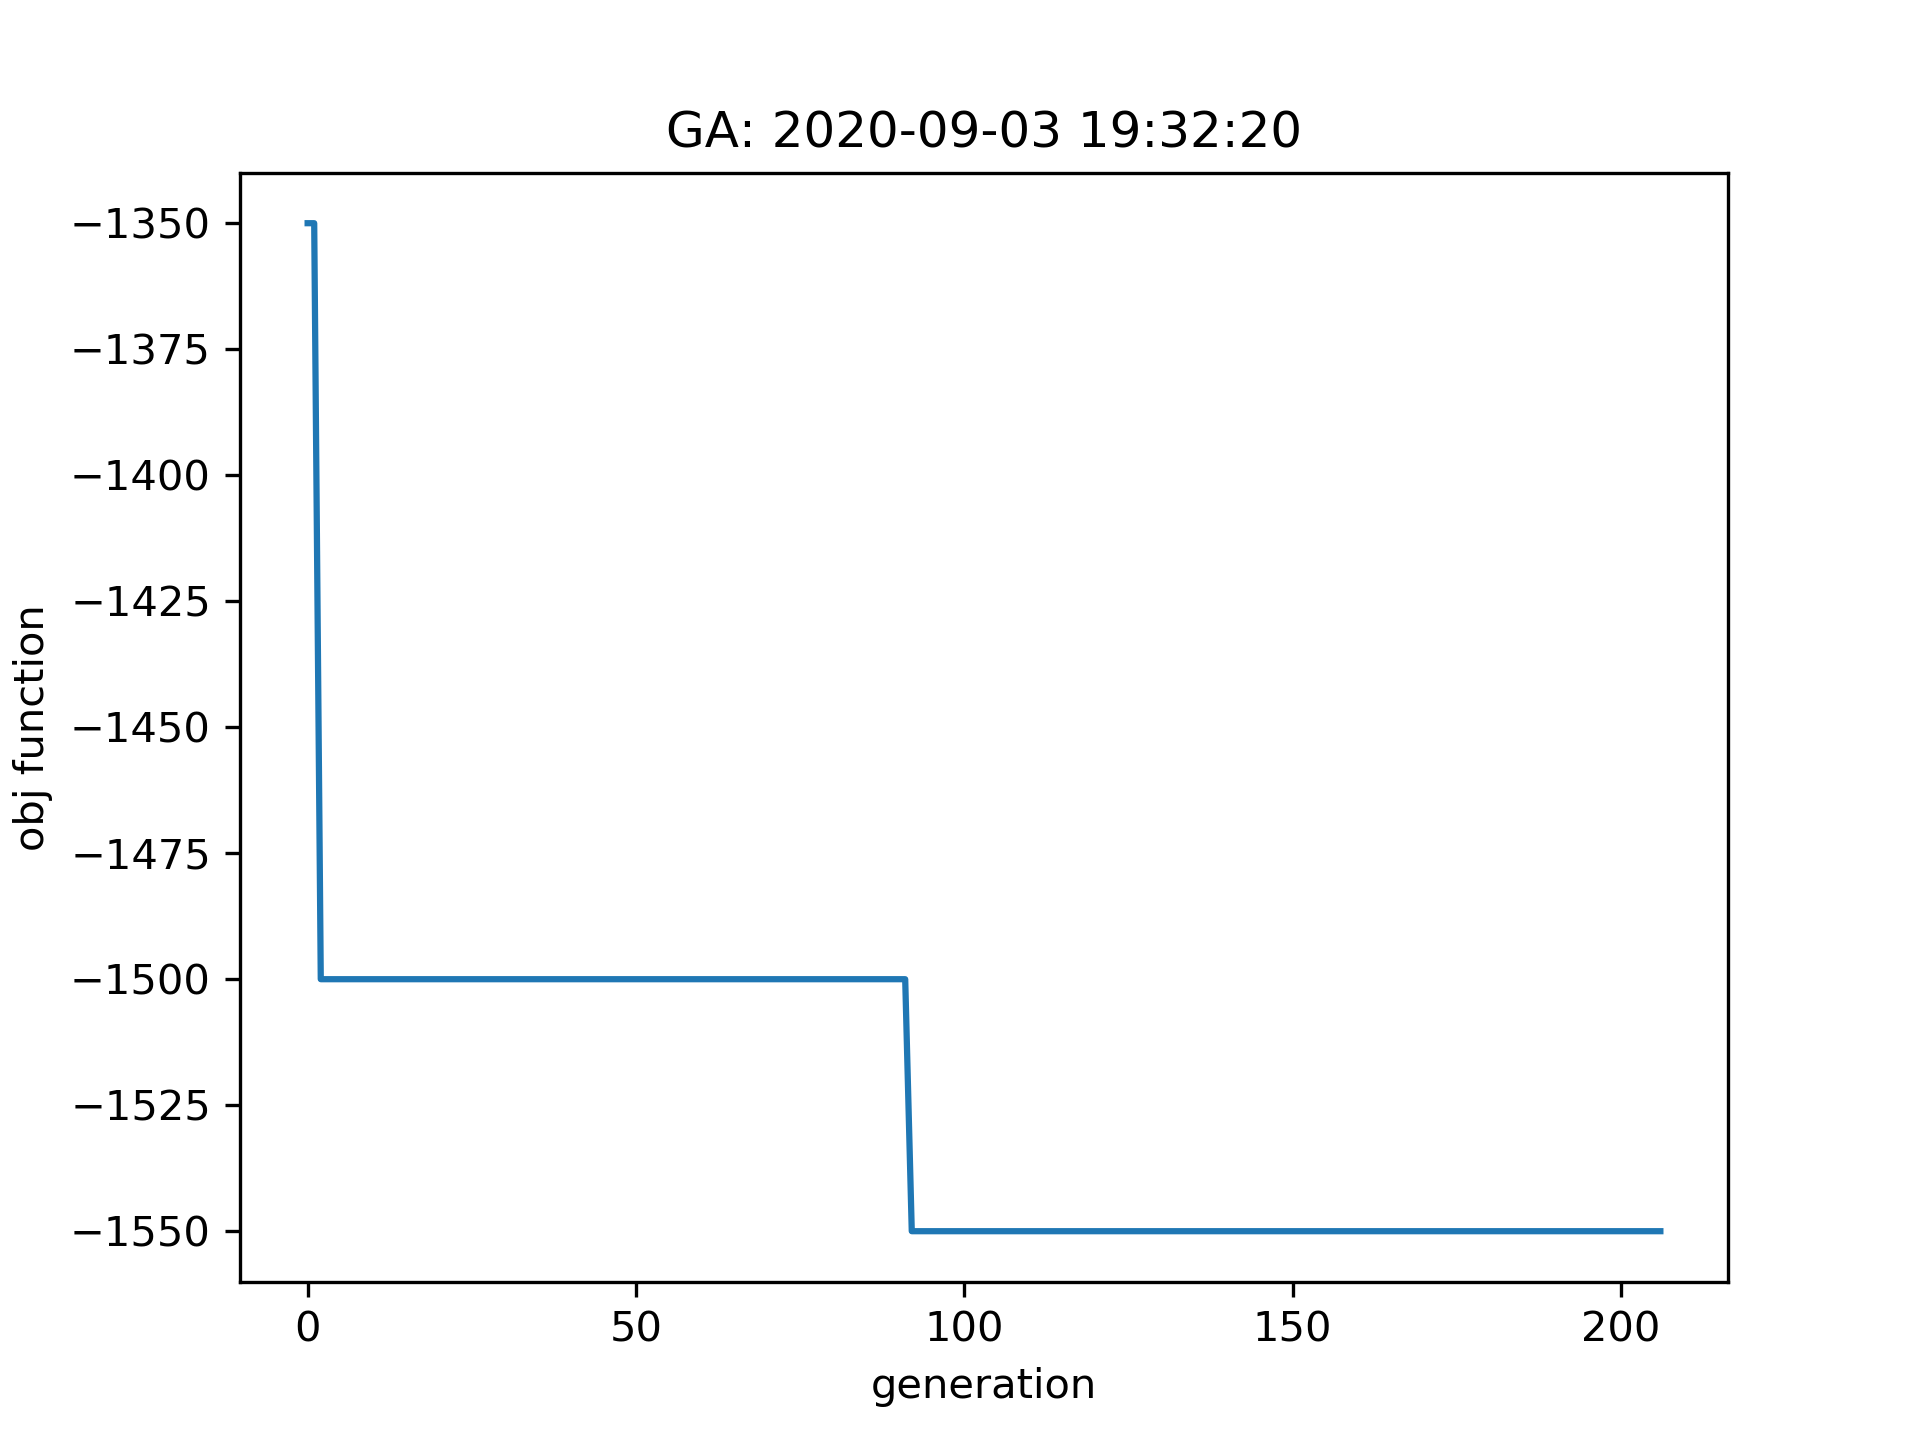
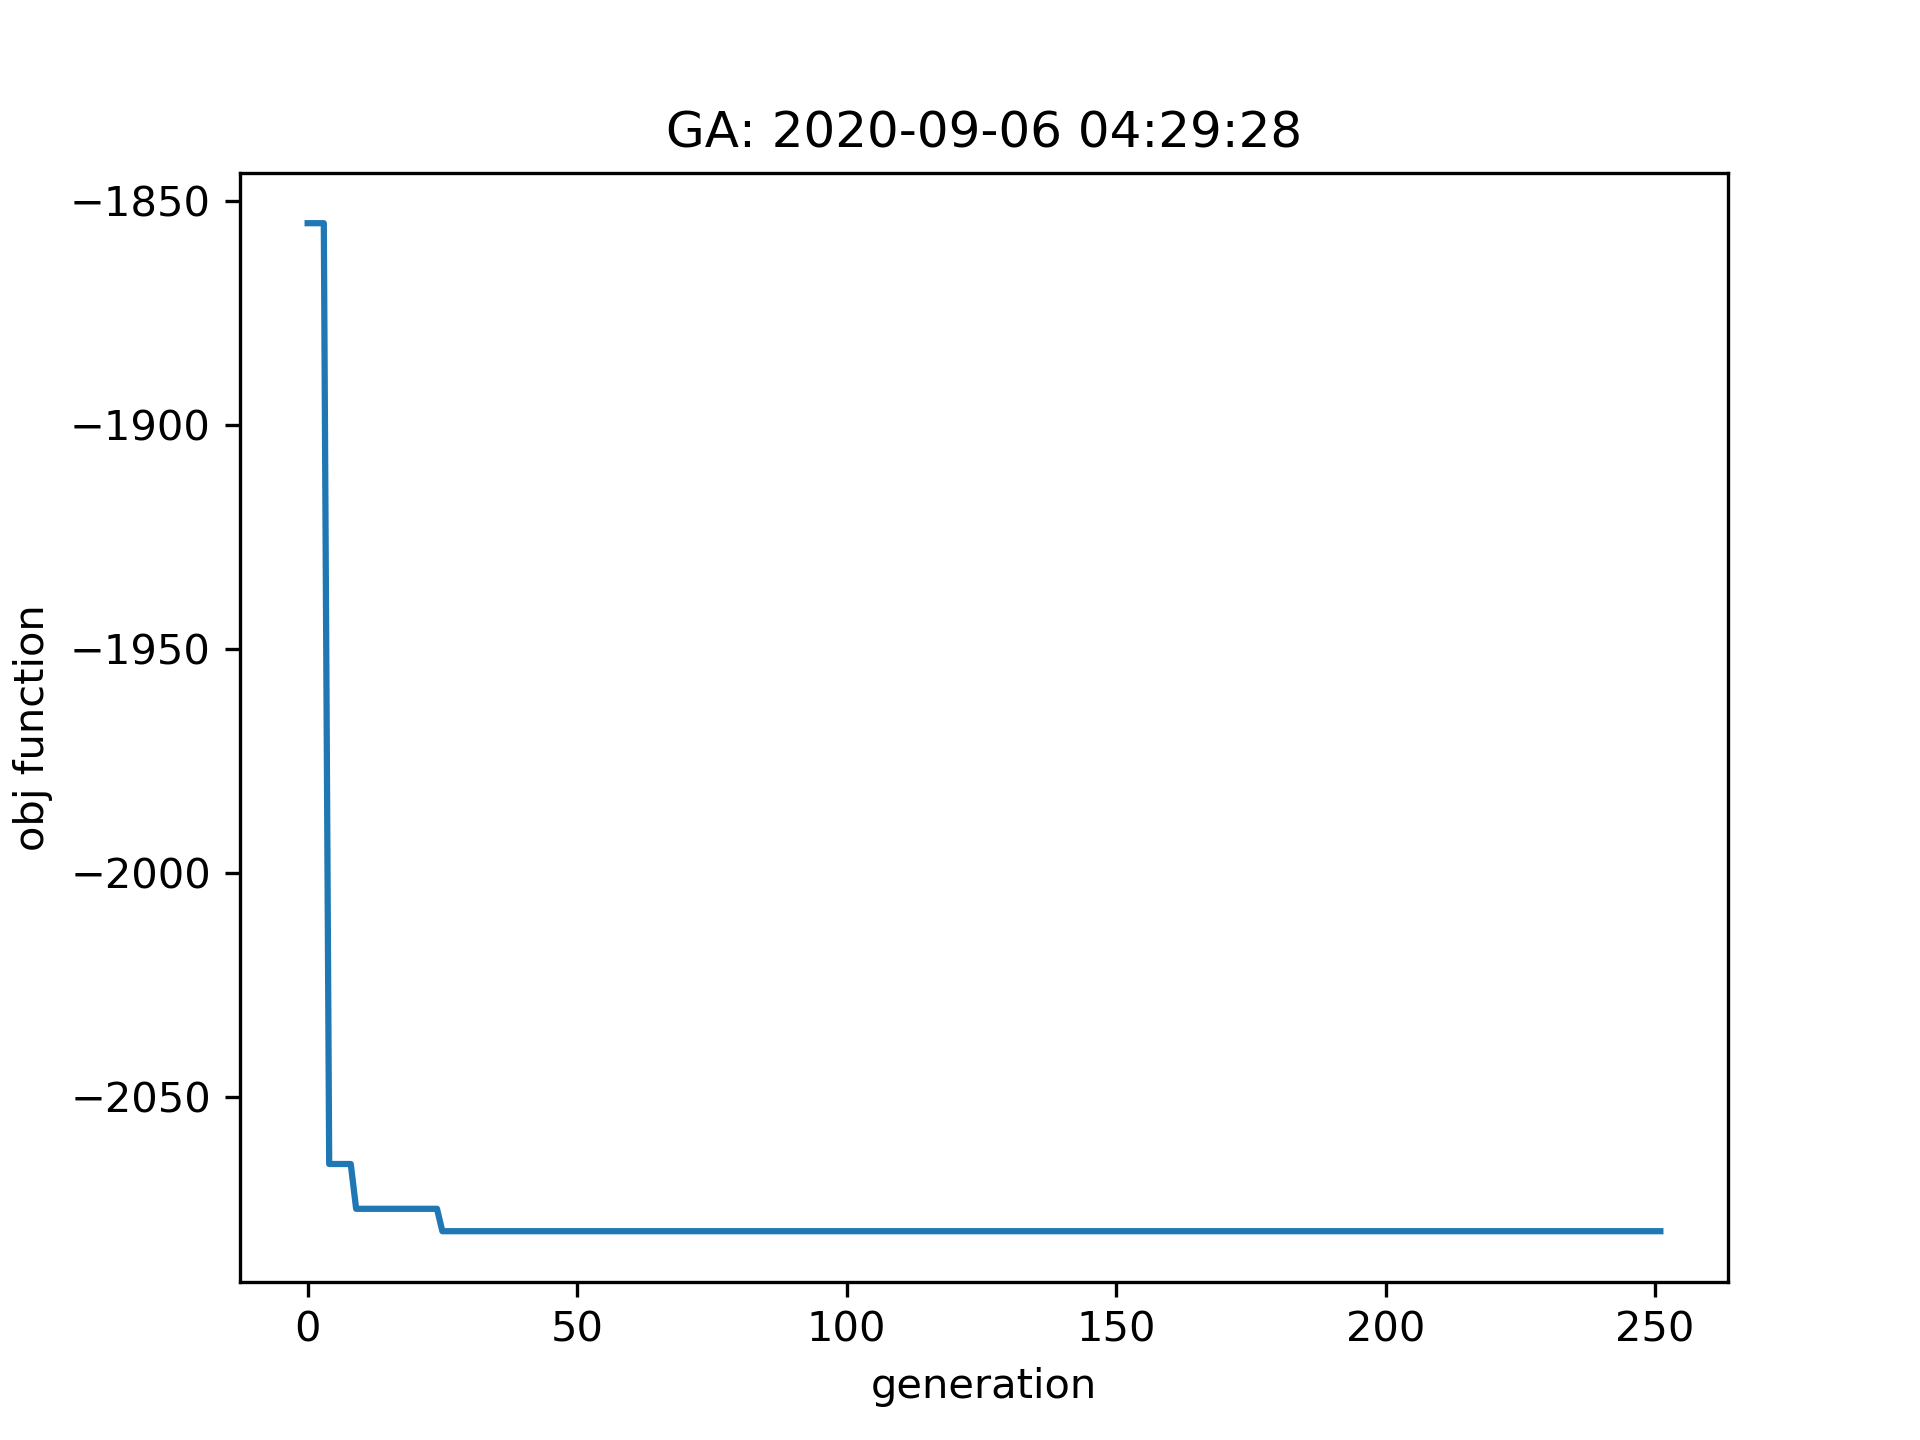
Uploading Alpha Test case and figuring out ALG test bugs

diff --git a/src/score.py b/src/score.py
@@ -133,8 +133,7 @@ def pointsTeamSize(groupAssignments):
     for i in range(len(groupSize)):
         if load_csv.minTeamSize[i] <= groupSize[i] <= load_csv.maxTeamSize[i]:
             prints.debug(f"project: {load_csv.projectIDs[i]} satisfies the condition!")
-            prints.debug(
-                f"project: {load_csv.projectIDs[i]} Min:{load_csv.minTeamSize[i]} Max: {load_csv.maxTeamSize[i]} group size: {groupSize[i]}")
+            prints.debug(f"project: {load_csv.projectIDs[i]} Min:{load_csv.minTeamSize[i]} Max: {load_csv.maxTeamSize[i]} group size: {groupSize[i]}")
             totalPTS += weightPTS
 
     return totalPTS
@@ -173,23 +172,23 @@ def pointsAvoid(groupAssignments):
 
 
 def scoringMode(groupAssignments):
-    prints.debug(f"Assignment: {groupAssignments}")
+    prints.score(f"Assignment: \nStudent   Project\n{groupAssignments}")
     score = 0
 
     score = pointsStudentChoice(groupAssignments)
-    prints.debug(f"score after studentChoice = , {score}")
+    prints.score(f"score after studentChoice = {score}")
     score += pointsESLStudents(groupAssignments)
-    prints.debug(f"score after ESLStudents = {score}")
+    prints.score(f"score after ESLStudents = {score}")
     score += pointsStudentPriority(groupAssignments)
-    prints.debug(f"score after studentPriority = {score}")
+    prints.score(f"score after studentPriority = {score}")
 
-    score += pointsMaxLowGPAStudents(groupAssignments)
-    prints.debug(f"score after maxLowGPAStudents = {score}")
-    score += pointsTeamSize(groupAssignments)
-    prints.debug(f"score after teamSize = {score}")
-    score += pointsAvoid(groupAssignments)
-    prints.debug(f"score after studentAvoid = {score}")
+    score += pointsMaxLowGPAStudents(groupAssignments)  
+    prints.score(f"score after maxLowGPAStudents = {score}")
+    score += pointsTeamSize(groupAssignments)           
+    prints.score(f"score after teamSize = {score}")
+    score += pointsAvoid(groupAssignments)              
+    prints.score(f"score after studentAvoid = {score}")
 
-    prints.debug(f"score grand total = {score}")
+    prints.score(f"score grand total = {score}")
 
     return score

diff --git a/src/geneticalgorithm.py b/src/geneticalgorithm.py
@@ -388,14 +388,14 @@ class geneticalgorithm():
         re = np.array(self.report)
         now = datetime.today().strftime('%Y-%m-%d %H:%M:%S')  ## pass from main?
 
-        # plt.plot(re)
-        # plt.xlabel('generation')
-        # plt.ylabel('obj function')
-        # plt.title('GA: ' + now)
-        # plt.savefig('../io/latest.png', dpi=300)
-        # plt.show()
+        plt.plot(re)
+        plt.xlabel('generation')
+        plt.ylabel('obj function')
+        plt.title('GA: ' + now)
+        plt.savefig('../io/latest.png', dpi=300)
+        plt.show()
 
-        # plt.savefig(sys.stdout.buffer)
+        #plt.savefig(sys.stdout.buffer)
 
         if self.stop_mniwi == True and self.param['verbose']:
             sys.stdout.write(early_stop_message)

diff --git a/src/assign.py b/src/assign.py
@@ -43,10 +43,10 @@ def run_ga(verbose=1):
     """
 
     # vars
-    effort_scaling = load_csv.effort/2 # scale the effort value for this algorithm, '100' taking roughly 8 hours
+    effort_scaling = load_csv.effort # scale the effort value for this algorithm, '100' taking roughly 8 hours
     num_projects = len(load_csv.projectIDs) # total projects available
     num_generations = load_csv.numStudents*num_projects*effort_scaling # scale generations based on input size
-
+    print(num_generations, '###')
     var_bound = np.array([[0,num_projects - 1]]*load_csv.numStudents) # solution shape
     ga_params = {'max_num_iteration': num_generations,\
                     'population_size':100,\

diff --git a/src/prints.py b/src/prints.py
@@ -38,6 +38,6 @@ def logerr(msg):
     print("\nERROR: " + msg)
 
 
-def sco(msg):
+def score(msg):
     """prints a score"""
-    print("\nScore: " + msg)
+    #print("" + msg)
